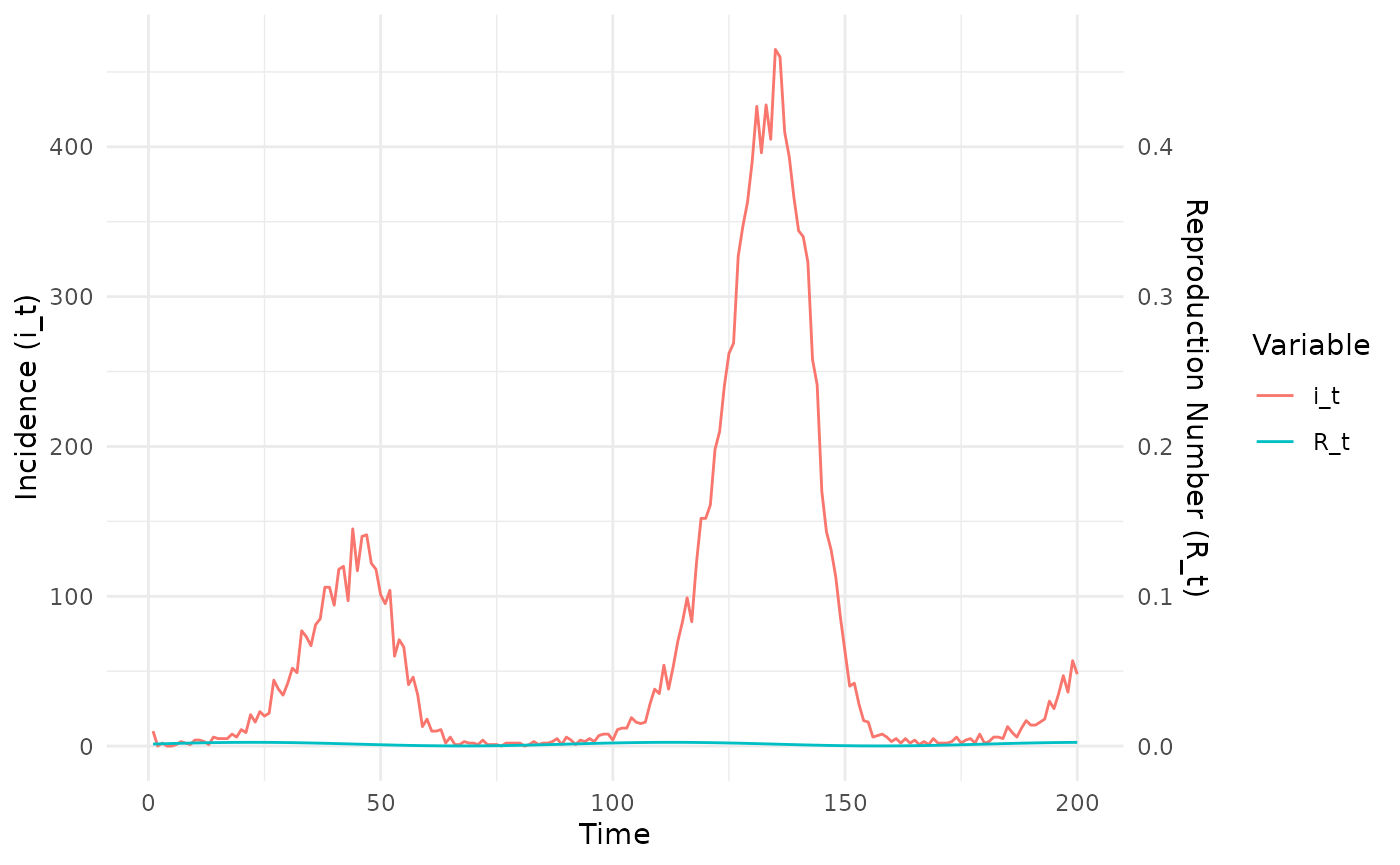
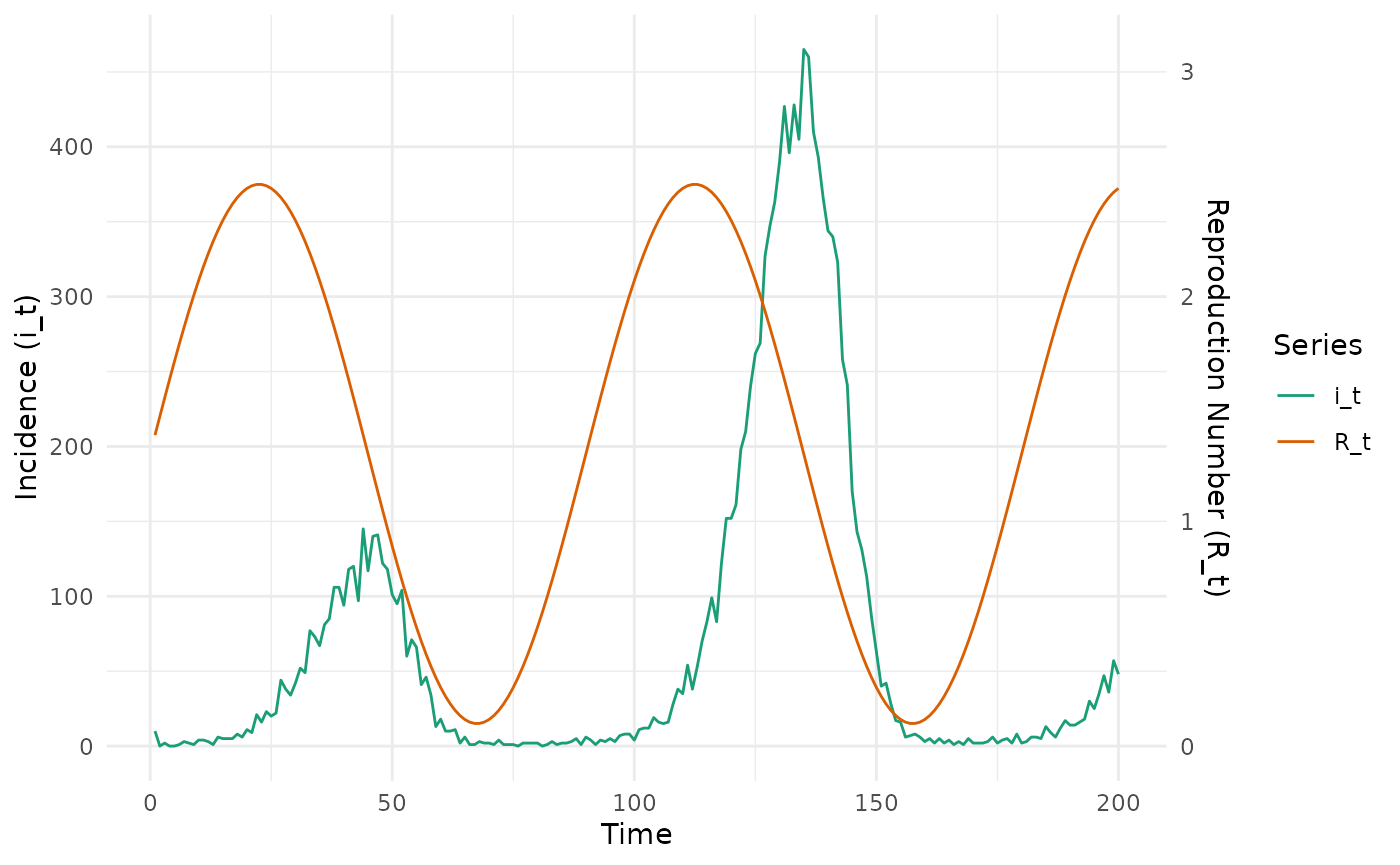
Deploying to gh-pages from @ ben18785/epidp@c04cfa4bea69a556bc496fd4244528792437dc61 🚀

diff --git a/articles/fitting_synthetic_data_using_epidp.html b/articles/fitting_synthetic_data_using_epidp.html
@@ -191,17 +191,20 @@ values after an initial period when case counts are low.</p>
 <span><span class="va">epidemic_df</span> <span class="op">&lt;-</span> <span class="fu"><a href="../reference/simulate_renewal_epidemic.html">simulate_renewal_epidemic</a></span><span class="op">(</span><span class="va">rt_fun</span>, <span class="va">nt</span>, <span class="va">mean_si</span>, <span class="va">sd_si</span>, <span class="va">i_0</span><span class="op">)</span></span>
 <span></span>
 <span><span class="co"># plot</span></span>
+<span><span class="va">transform_factor</span> <span class="op">&lt;-</span> <span class="fl">150</span></span>
 <span><span class="va">epidemic_df</span> <span class="op"><a href="https://magrittr.tidyverse.org/reference/pipe.html" class="external-link">%&gt;%</a></span></span>
 <span>  <span class="fu"><a href="https://dplyr.tidyverse.org/reference/select.html" class="external-link">select</a></span><span class="op">(</span><span class="op">-</span><span class="fu"><a href="https://rdrr.io/r/base/c.html" class="external-link">c</a></span><span class="op">(</span><span class="va">w_dist</span>, <span class="va">lambda_t</span><span class="op">)</span><span class="op">)</span> <span class="op"><a href="https://magrittr.tidyverse.org/reference/pipe.html" class="external-link">%&gt;%</a></span></span>
+<span>  <span class="fu"><a href="https://dplyr.tidyverse.org/reference/mutate.html" class="external-link">mutate</a></span><span class="op">(</span>R_t <span class="op">=</span> <span class="va">R_t</span> <span class="op">*</span> <span class="va">transform_factor</span><span class="op">)</span> <span class="op"><a href="https://magrittr.tidyverse.org/reference/pipe.html" class="external-link">%&gt;%</a></span> </span>
 <span>  <span class="fu"><a href="https://tidyr.tidyverse.org/reference/pivot_longer.html" class="external-link">pivot_longer</a></span><span class="op">(</span><span class="fu"><a href="https://rdrr.io/r/base/c.html" class="external-link">c</a></span><span class="op">(</span><span class="va">i_t</span>, <span class="va">R_t</span><span class="op">)</span><span class="op">)</span> <span class="op"><a href="https://magrittr.tidyverse.org/reference/pipe.html" class="external-link">%&gt;%</a></span></span>
 <span>  <span class="fu"><a href="https://ggplot2.tidyverse.org/reference/ggplot.html" class="external-link">ggplot</a></span><span class="op">(</span><span class="fu"><a href="https://ggplot2.tidyverse.org/reference/aes.html" class="external-link">aes</a></span><span class="op">(</span>x <span class="op">=</span> <span class="va">t</span>, y <span class="op">=</span> <span class="va">value</span>, colour <span class="op">=</span> <span class="va">name</span><span class="op">)</span><span class="op">)</span> <span class="op">+</span></span>
 <span>  <span class="fu"><a href="https://ggplot2.tidyverse.org/reference/geom_path.html" class="external-link">geom_line</a></span><span class="op">(</span><span class="op">)</span> <span class="op">+</span></span>
 <span>  <span class="fu"><a href="https://ggplot2.tidyverse.org/reference/scale_continuous.html" class="external-link">scale_y_continuous</a></span><span class="op">(</span></span>
 <span>    name <span class="op">=</span> <span class="st">"Incidence (i_t)"</span>,</span>
-<span>    sec.axis <span class="op">=</span> <span class="fu"><a href="https://ggplot2.tidyverse.org/reference/sec_axis.html" class="external-link">sec_axis</a></span><span class="op">(</span><span class="op">~</span> <span class="va">.</span> <span class="op">/</span> <span class="fl">1000</span>, name <span class="op">=</span> <span class="st">"Reproduction Number (R_t)"</span><span class="op">)</span></span>
+<span>    sec.axis <span class="op">=</span> <span class="fu"><a href="https://ggplot2.tidyverse.org/reference/sec_axis.html" class="external-link">sec_axis</a></span><span class="op">(</span><span class="op">~</span> <span class="va">.</span> <span class="op">/</span> <span class="va">transform_factor</span>, name <span class="op">=</span> <span class="st">"Reproduction Number (R_t)"</span><span class="op">)</span></span>
 <span>  <span class="op">)</span> <span class="op">+</span></span>
-<span>  <span class="fu"><a href="https://ggplot2.tidyverse.org/reference/labs.html" class="external-link">labs</a></span><span class="op">(</span>x <span class="op">=</span> <span class="st">"Time"</span>, colour <span class="op">=</span> <span class="st">"Variable"</span><span class="op">)</span> <span class="op">+</span></span>
-<span>  <span class="fu"><a href="https://ggplot2.tidyverse.org/reference/ggtheme.html" class="external-link">theme_minimal</a></span><span class="op">(</span><span class="op">)</span></span></code></pre></div>
+<span>  <span class="fu"><a href="https://ggplot2.tidyverse.org/reference/labs.html" class="external-link">labs</a></span><span class="op">(</span>x <span class="op">=</span> <span class="st">"Time"</span><span class="op">)</span> <span class="op">+</span></span>
+<span>  <span class="fu"><a href="https://ggplot2.tidyverse.org/reference/ggtheme.html" class="external-link">theme_minimal</a></span><span class="op">(</span><span class="op">)</span> <span class="op">+</span></span>
+<span>  <span class="fu"><a href="https://ggplot2.tidyverse.org/reference/scale_brewer.html" class="external-link">scale_color_brewer</a></span><span class="op">(</span><span class="st">"Series"</span>, palette <span class="op">=</span> <span class="st">"Dark2"</span><span class="op">)</span></span></code></pre></div>
 <p><img src="fitting_synthetic_data_using_epidp_files/figure-html/unnamed-chunk-4-1.png" width="700"></p>
 <p>We now use a Stan version of EpiFilter to estimate the
 <math display="inline" xmlns="http://www.w3.org/1998/Math/MathML"><semantics><msub><mi>R</mi><mi>t</mi></msub><annotation encoding="application/x-tex">R_t</annotation></semantics></math>
@@ -433,7 +436,7 @@ profile.</p>
 <span><span class="co">#&gt; R[199] 2.31    0.01 0.19 1.93 2.18 2.31 2.42  2.71   588 1.00</span></span>
 <span><span class="co">#&gt; R[200] 2.20    0.01 0.20 1.83 2.06 2.19 2.33  2.62   447 0.99</span></span>
 <span><span class="co">#&gt; </span></span>
-<span><span class="co">#&gt; Samples were drawn using NUTS(diag_e) at Mon Aug 12 16:21:59 2024.</span></span>
+<span><span class="co">#&gt; Samples were drawn using NUTS(diag_e) at Mon Aug 12 16:40:11 2024.</span></span>
 <span><span class="co">#&gt; For each parameter, n_eff is a crude measure of effective sample size,</span></span>
 <span><span class="co">#&gt; and Rhat is the potential scale reduction factor on split chains (at </span></span>
 <span><span class="co">#&gt; convergence, Rhat=1).</span></span></code></pre></div>

diff --git a/articles/fitting_synthetic_data_including_covariates.html b/articles/fitting_synthetic_data_including_covariates.html
@@ -368,7 +368,7 @@ profile.</p>
 <span><span class="co">#&gt; R[199] 3.58    0.01 0.28 3.05 3.38 3.57 3.79  4.11   362 1.01</span></span>
 <span><span class="co">#&gt; R[200] 3.83    0.02 0.30 3.33 3.64 3.81 4.02  4.42   344 1.02</span></span>
 <span><span class="co">#&gt; </span></span>
-<span><span class="co">#&gt; Samples were drawn using NUTS(diag_e) at Mon Aug 12 16:21:14 2024.</span></span>
+<span><span class="co">#&gt; Samples were drawn using NUTS(diag_e) at Mon Aug 12 16:39:28 2024.</span></span>
 <span><span class="co">#&gt; For each parameter, n_eff is a crude measure of effective sample size,</span></span>
 <span><span class="co">#&gt; and Rhat is the potential scale reduction factor on split chains (at </span></span>
 <span><span class="co">#&gt; convergence, Rhat=1).</span></span></code></pre></div>
